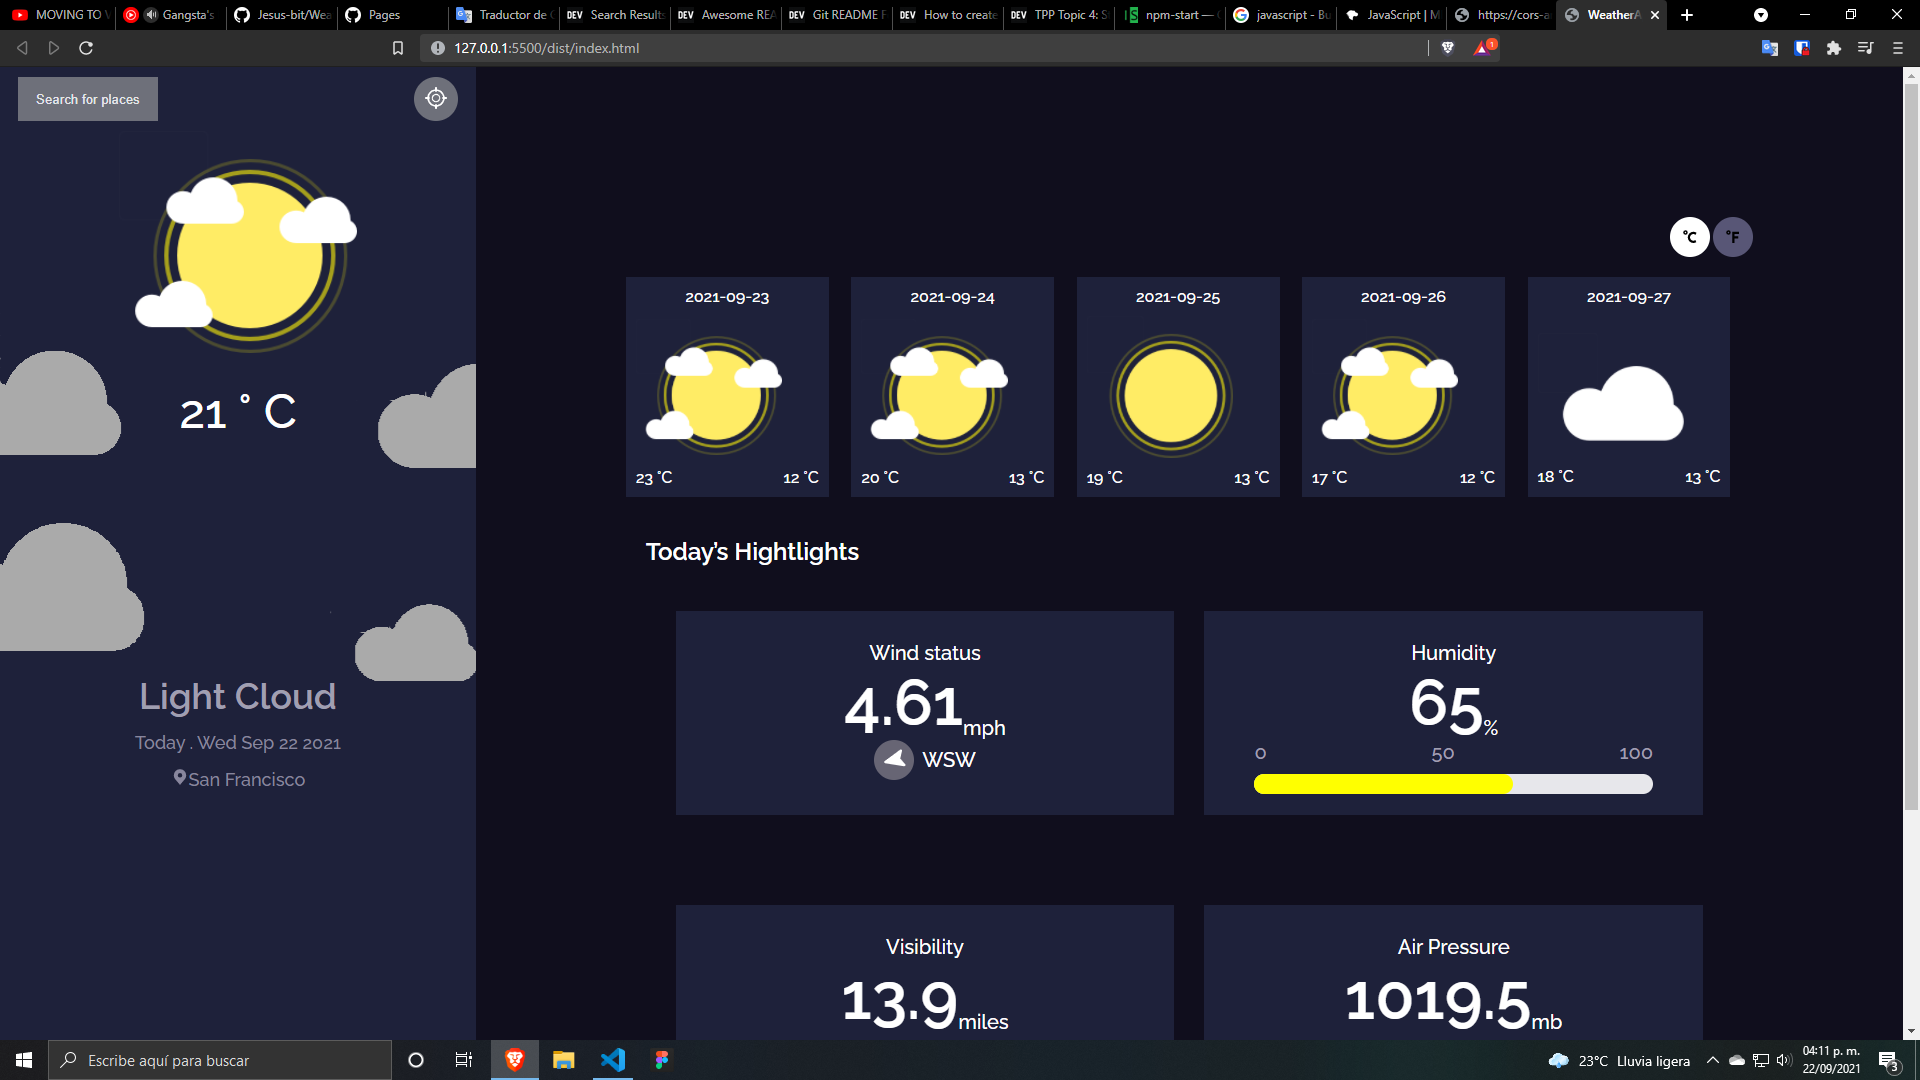
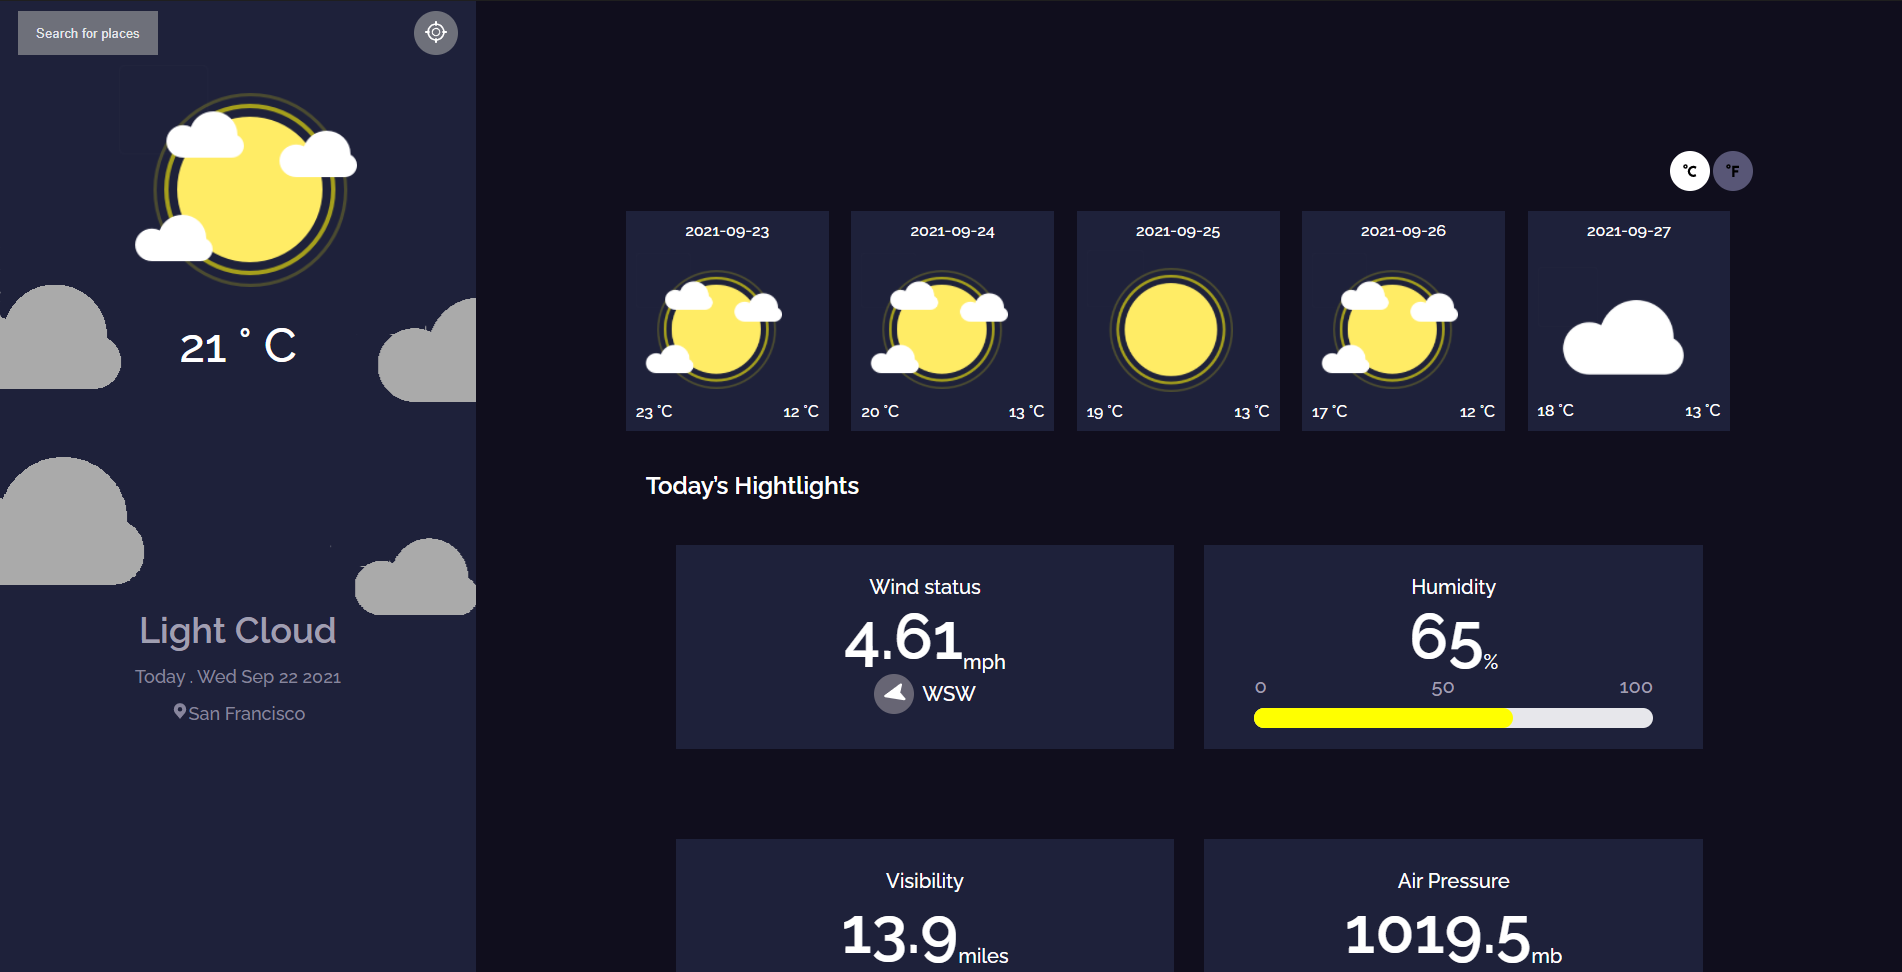
webpack modification for production

diff --git a/dist/index.html b/dist/index.html
@@ -1,1 +1,1 @@
-<!doctype html><html lang="en"><head><meta charset="utf-8"/><meta name="viewport" content="width=device-width,initial-scale=1,maximum-scale=5"/><link rel="icon" href="devchallenges.png"/><link rel="preconnect" href="https://fonts.googleapis.com"><link rel="preconnect" href="https://fonts.gstatic.com" crossorigin><link href="https://fonts.googleapis.com/css2?family=Raleway:wght@500;600&display=swap" rel="stylesheet"><link rel="shortcut icon" type="image/x-icon" href="https://devchallenges.io/"/><link href="https://fonts.googleapis.com/css2?family=Poppins:wght@400;500&display=swap" rel="stylesheet"/><title>WeatherApp</title><script defer="defer" src="main.js"></script><link href="assets/main.2a421745760e7ebe44a5.css" rel="stylesheet"></head><body><header class="header-menu"><nav><button class="search-button" id="search">Search for places</button> <button class="pocision-button"><img fill="red" src="./assets/icons/pocision.svg" alt=""></button></nav><section class="time"><img class="time-img" src="./assets/img/Shower.png" alt=""><div class="time-info"><h2 class="time-temperature">15 ° C</h2><h3>Shower</h3><p>Today . Fri 5 jun</p><p><span class="iconify" data-icon="carbon:location-filled" data-rotate="180deg" data-flip="horizontal,vertical"></span>Helsinky</p></div></section><section class="places hidden"><span class="iconify" id="close-places" data-icon="ci:close-big" data-rotate="180deg" data-flip="horizontal,vertical"></span><div class="place-search"><div class="input-search"><span class="iconify" data-icon="entypo:magnifying-glass" style="color: #616475;" data-rotate="180deg" data-flip="horizontal,vertical"></span> <input class="input-place" placeholder="Search location"></div><button id="search-btn">Search</button></div><div class="item-place"><p>london</p><span class="iconify" data-icon="fe:arrow-right" data-rotate="180deg" data-flip="horizontal,vertical"></span></div></section></header><main><div class="measures"><button class="button-celsius button-active" data-active="true" data-type="celsius"><span class="iconify" data-icon="mdi:temperature-celsius" data-rotate="180deg" data-flip="horizontal,vertical"></span></button> <button class="button-fahrenheit button-disabled" data-active="false" data-type="fahrenheit"><span class="iconify" data-icon="mdi:temperature-fahrenheit" data-rotate="180deg" data-flip="horizontal,vertical"></span></button></div><section class="time-weekend"><div class="card-time"><p>Tomorrow</p><img src="./assets/img/Sleet.png" alt=""><p>13°C</p><p>11°C</p></div><div class="card-time"><p>Tomorrow</p><img src="./assets/img/Sleet.png" alt=""><p>13°C</p><p>11°C</p></div><div class="card-time"><p>Tomorrow</p><img src="./assets/img/Sleet.png" alt=""><p>13°C</p><p>11°C</p></div><div class="card-time"><p>Tomorrow</p><img src="./assets/img/Sleet.png" alt=""><p>13°C</p><p>11°C</p></div><div class="card-time"><p>Tomorrow</p><img src="./assets/img/Sleet.png" alt=""><p>13°C</p><p>11°C</p></div></section><section class="time_Hightlights"><h3>Today’s Hightlights</h3><section class="data-cards"><section class="data"><p>Wind status</p><div class="data-mesures"><span>23</span><p>mph</p></div></section><section class="data"><p>Humidity</p><div class="data-mesures"><span>80</span><p>%</p></div></section><section class="data"><p>Visibility</p><div class="data-mesures"><span>8,0</span><p>miles</p></div></section><section class="data"><p>Air Pressure</p><div class="data-mesures"><span>8,0</span><p>mb</p></div></section></section></section><footer>created by Jesus-bit - <a href="devChallenges.io">devChallenges.io</a></footer></main><script src="https://code.iconify.design/2/2.0.3/iconify.min.js"></script></body></html>
+<!doctype html><html lang="en"><head><meta charset="utf-8"/><meta name="viewport" content="width=device-width,initial-scale=1,maximum-scale=5"/><link rel="icon" href="devchallenges.png"/><link rel="preconnect" href="https://fonts.googleapis.com"><link rel="preconnect" href="https://fonts.gstatic.com" crossorigin><link href="https://fonts.googleapis.com/css2?family=Raleway:wght@500;600&display=swap" rel="stylesheet"><link rel="shortcut icon" type="image/x-icon" href="https://devchallenges.io/"/><link href="https://fonts.googleapis.com/css2?family=Poppins:wght@400;500&display=swap" rel="stylesheet"/><title>WeatherApp</title><script defer="defer" src="main.js"></script><link href="assets/main.css" rel="stylesheet"></head><body><header class="header-menu"><nav><button class="search-button" id="search">Search for places</button> <button class="pocision-button"><img fill="red" src="./assets/icons/pocision.svg" alt=""></button></nav><section class="time"><img class="time-img" src="./assets/img/Shower.png" alt=""><div class="time-info"><h2 class="time-temperature">15 ° C</h2><h3>Shower</h3><p>Today . Fri 5 jun</p><p><span class="iconify" data-icon="carbon:location-filled" data-rotate="180deg" data-flip="horizontal,vertical"></span>Helsinky</p></div></section><section class="places hidden"><span class="iconify" id="close-places" data-icon="ci:close-big" data-rotate="180deg" data-flip="horizontal,vertical"></span><div class="place-search"><div class="input-search"><span class="iconify" data-icon="entypo:magnifying-glass" style="color: #616475;" data-rotate="180deg" data-flip="horizontal,vertical"></span> <input class="input-place" placeholder="Search location"></div><button id="search-btn">Search</button></div><div class="item-place"><p>london</p><span class="iconify" data-icon="fe:arrow-right" data-rotate="180deg" data-flip="horizontal,vertical"></span></div></section></header><main><div class="measures"><button class="button-celsius button-active" data-active="true" data-type="celsius"><span class="iconify" data-icon="mdi:temperature-celsius" data-rotate="180deg" data-flip="horizontal,vertical"></span></button> <button class="button-fahrenheit button-disabled" data-active="false" data-type="fahrenheit"><span class="iconify" data-icon="mdi:temperature-fahrenheit" data-rotate="180deg" data-flip="horizontal,vertical"></span></button></div><section class="time-weekend"><div class="card-time"><p>Tomorrow</p><img src="./assets/img/Sleet.png" alt=""><p>13°C</p><p>11°C</p></div><div class="card-time"><p>Tomorrow</p><img src="./assets/img/Sleet.png" alt=""><p>13°C</p><p>11°C</p></div><div class="card-time"><p>Tomorrow</p><img src="./assets/img/Sleet.png" alt=""><p>13°C</p><p>11°C</p></div><div class="card-time"><p>Tomorrow</p><img src="./assets/img/Sleet.png" alt=""><p>13°C</p><p>11°C</p></div><div class="card-time"><p>Tomorrow</p><img src="./assets/img/Sleet.png" alt=""><p>13°C</p><p>11°C</p></div></section><section class="time_Hightlights"><h3>Today’s Hightlights</h3><section class="data-cards"><section class="data"><p>Wind status</p><div class="data-mesures"><span>23</span><p>mph</p></div></section><section class="data"><p>Humidity</p><div class="data-mesures"><span>80</span><p>%</p></div></section><section class="data"><p>Visibility</p><div class="data-mesures"><span>8,0</span><p>miles</p></div></section><section class="data"><p>Air Pressure</p><div class="data-mesures"><span>8,0</span><p>mb</p></div></section></section></section><footer>created by Jesus-bit - <a href="devChallenges.io">devChallenges.io</a></footer></main><script src="https://code.iconify.design/2/2.0.3/iconify.min.js"></script></body></html>

diff --git a/dist/assets/main.css b/dist/assets/main.css
@@ -1,0 +1,1 @@
+@font-face{font-family:Raleway;font-style:normal;font-weight:600;src:url(../db862d6a6f0976be736d.woff2) format("woff2"),url(../fd0b1391a63ac7d6e656.woff) format("woff")}@font-face{font-family:Raleway;font-style:normal;font-weight:500;src:url(../55c08cb751ef9becc746.woff2) format("woff2"),url(../54f88458eb656c4f959f.woff) format("woff")}*{box-sizing:border-box;margin:0;padding:0}html{color:#fff;font-family:Raleway,sans-serif;font-size:62.5%}body{display:grid}.time,header{background:#1e213a}.header-menu{display:flex;flex-direction:column;position:relative}.header-menu nav{display:flex;justify-content:space-between;padding:10px 18px}.search-button{color:#e7e7eb;padding:10px 18px}.pocision-button,.search-button{background-color:#6e707a;border:none;cursor:pointer}.pocision-button{border-radius:50%;height:44px;width:44px}.icon-ubication{width:10px}.pocision-button img{color:#e7e7eb;width:22px}.time{align-items:center;background-image:url(../aa2a9adcf10b5ea2ef70.png);background-position:50%;background-repeat:no-repeat;display:flex;flex-direction:column;justify-content:center;padding-bottom:50px}.time .time-img{width:50%}.time .time-info{color:#88869d;margin-top:20px;text-align:center}.time .time-temperature{color:#fff;font-size:4.8rem;font-weight:500;line-height:56px;margin:10px 10px 100%}.time .time-info h3{color:#a09fb1;font-size:3.6rem}.places{background-color:#1e213a;height:100%;position:absolute;top:0;width:100%;z-index:10}.hidden{display:none}#close-places{cursor:pointer;font-size:2.4rem;position:absolute;right:20px;top:20px}.place-search{display:flex;justify-content:center;margin:60px 0 40px}.place-search .input-search{align-items:center;border:1px solid #fff;display:flex;font-size:1.6rem;justify-content:end;padding:18px 5px;position:relative;width:60%}.place-search input{background-color:transparent;border:none;color:#fff;font-size:1.6rem;outline:none;width:95%}.place-search input:active,.place-search input:focus{border:none}.place-search button{background-color:#3c47e9;border:none;color:#fff;cursor:pointer;font-size:1.6rem;margin-left:10px;padding:18px;width:30%}.input-search .iconify{margin-right:10px}.item-place{display:flex;font-size:1.6rem;justify-content:space-between;margin:30px;padding:20px}.item-place:hover{border:1px solid #585676;cursor:pointer}.measures{text-align:end}.button-active{background-color:#fff;color:#000}.button-disabled{background-color:#585676}.button-celsius,.button-fahrenheit{align-items:center;border:none;border-radius:50%;cursor:pointer;display:none;font-size:1.8rem;height:40px;justify-content:center;width:40px}.time-info p{font-size:1.8rem;margin:15px}.time-weekend{grid-row-gap:30px;background-color:#100e1d;display:grid;font-size:1.6rem;grid-template-columns:repeat(2,1fr);padding:20px 0}.time-weekend .card-time{background-color:#1e213a;display:flex;flex-direction:column;justify-content:space-between;padding:10px;text-align:center;width:90%}.card-time img{margin:10px 0;width:80%}.temperatures{display:flex;justify-content:space-between}.time_Hightlights{background-color:#100e1d;padding:20px}.time_Hightlights .data-cards{grid-gap:30px;display:grid;padding:0 30px}.time_Hightlights h3{font-size:2.4rem;margin-bottom:15px}.wind-direction{align-items:center;display:inline-flex;justify-self:center}.icon-wind{background:#676574;border-radius:50%;display:inline-flex;height:40px;justify-content:center;margin-right:8px;width:40px}.percentages{color:#a09fb1;display:flex;justify-content:space-between}.temperature-bar{background:#e7e7eb;border-radius:40px;height:20px;margin-top:10px;position:relative;width:100%}.temperature-bar-content{background-color:#ff0;border-radius:40px;height:20px;width:70%;z-index:3}.time_Hightlights .data{background-color:#1e213a;height:204px;margin:30px 0;padding:30px 50px;text-align:center;width:100%}main{background-color:#100e1d;padding:150px}.navigator{color:#fff;width:20px}.data p{font-size:2rem;font-weight:200}.data span{font-size:6.4rem;font-weight:800}.data-mesures{align-items:end;display:flex;justify-content:center}footer{background-color:#100e1d;font-size:1.4rem;text-align:center}footer a{color:#6e707a;text-decoration:none}@media (min-width:1300px){body{grid-template-columns:1fr 3fr}.time-weekend{grid-row-gap:0;grid-template-columns:repeat(5,1fr)}.time_Hightlights .data-cards{grid-template-columns:1fr 1fr}.button-celsius,.button-fahrenheit{display:inline-flex}}

diff --git a/webpack.config.js b/webpack.config.js
@@ -66,7 +66,7 @@ module.exports = {
             filename: './index.html' // NOMBRE FINAL DEL ARCHIVO
         }),
         new MiniCssExtractPlugin({
-            filename: 'assets/[name].[contenthash].css'
+            filename: 'assets/[name].css'
         }),
         new CopyPlugin({
             patterns: [
